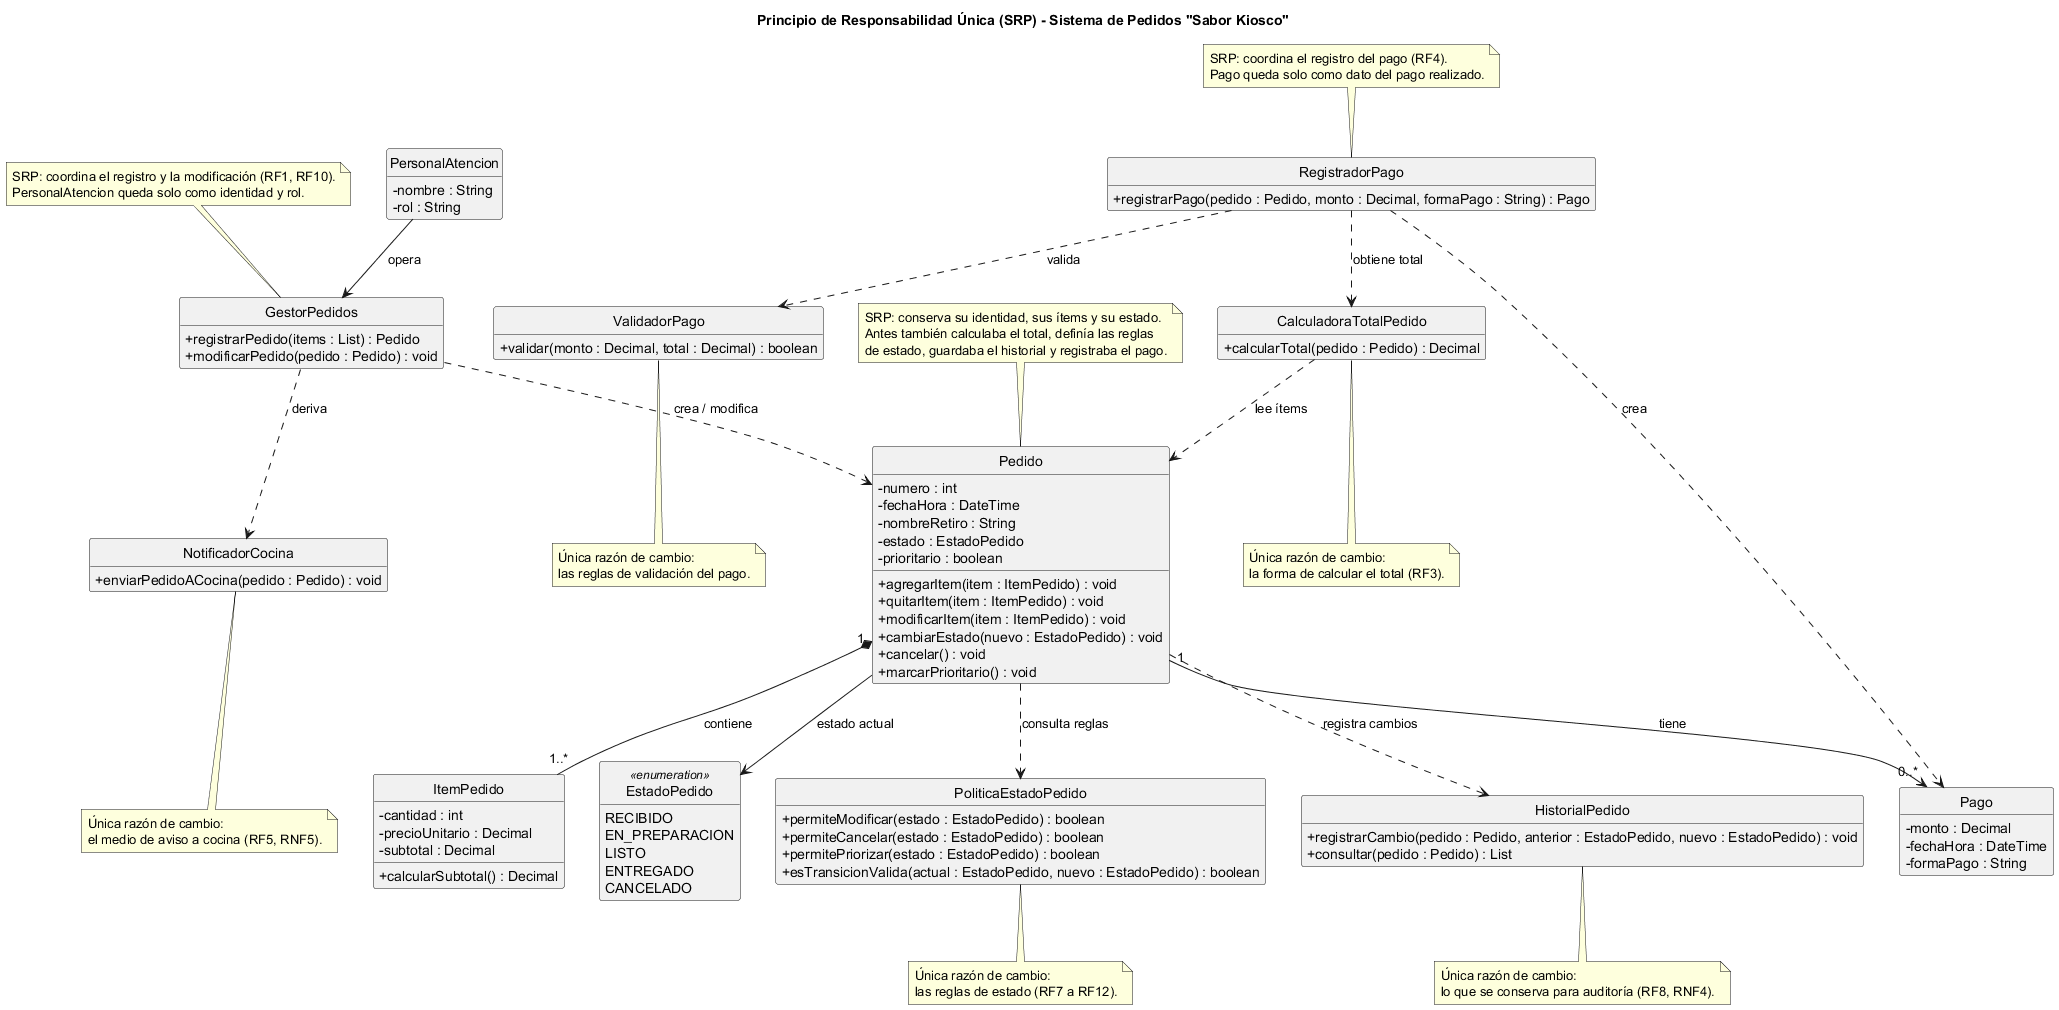
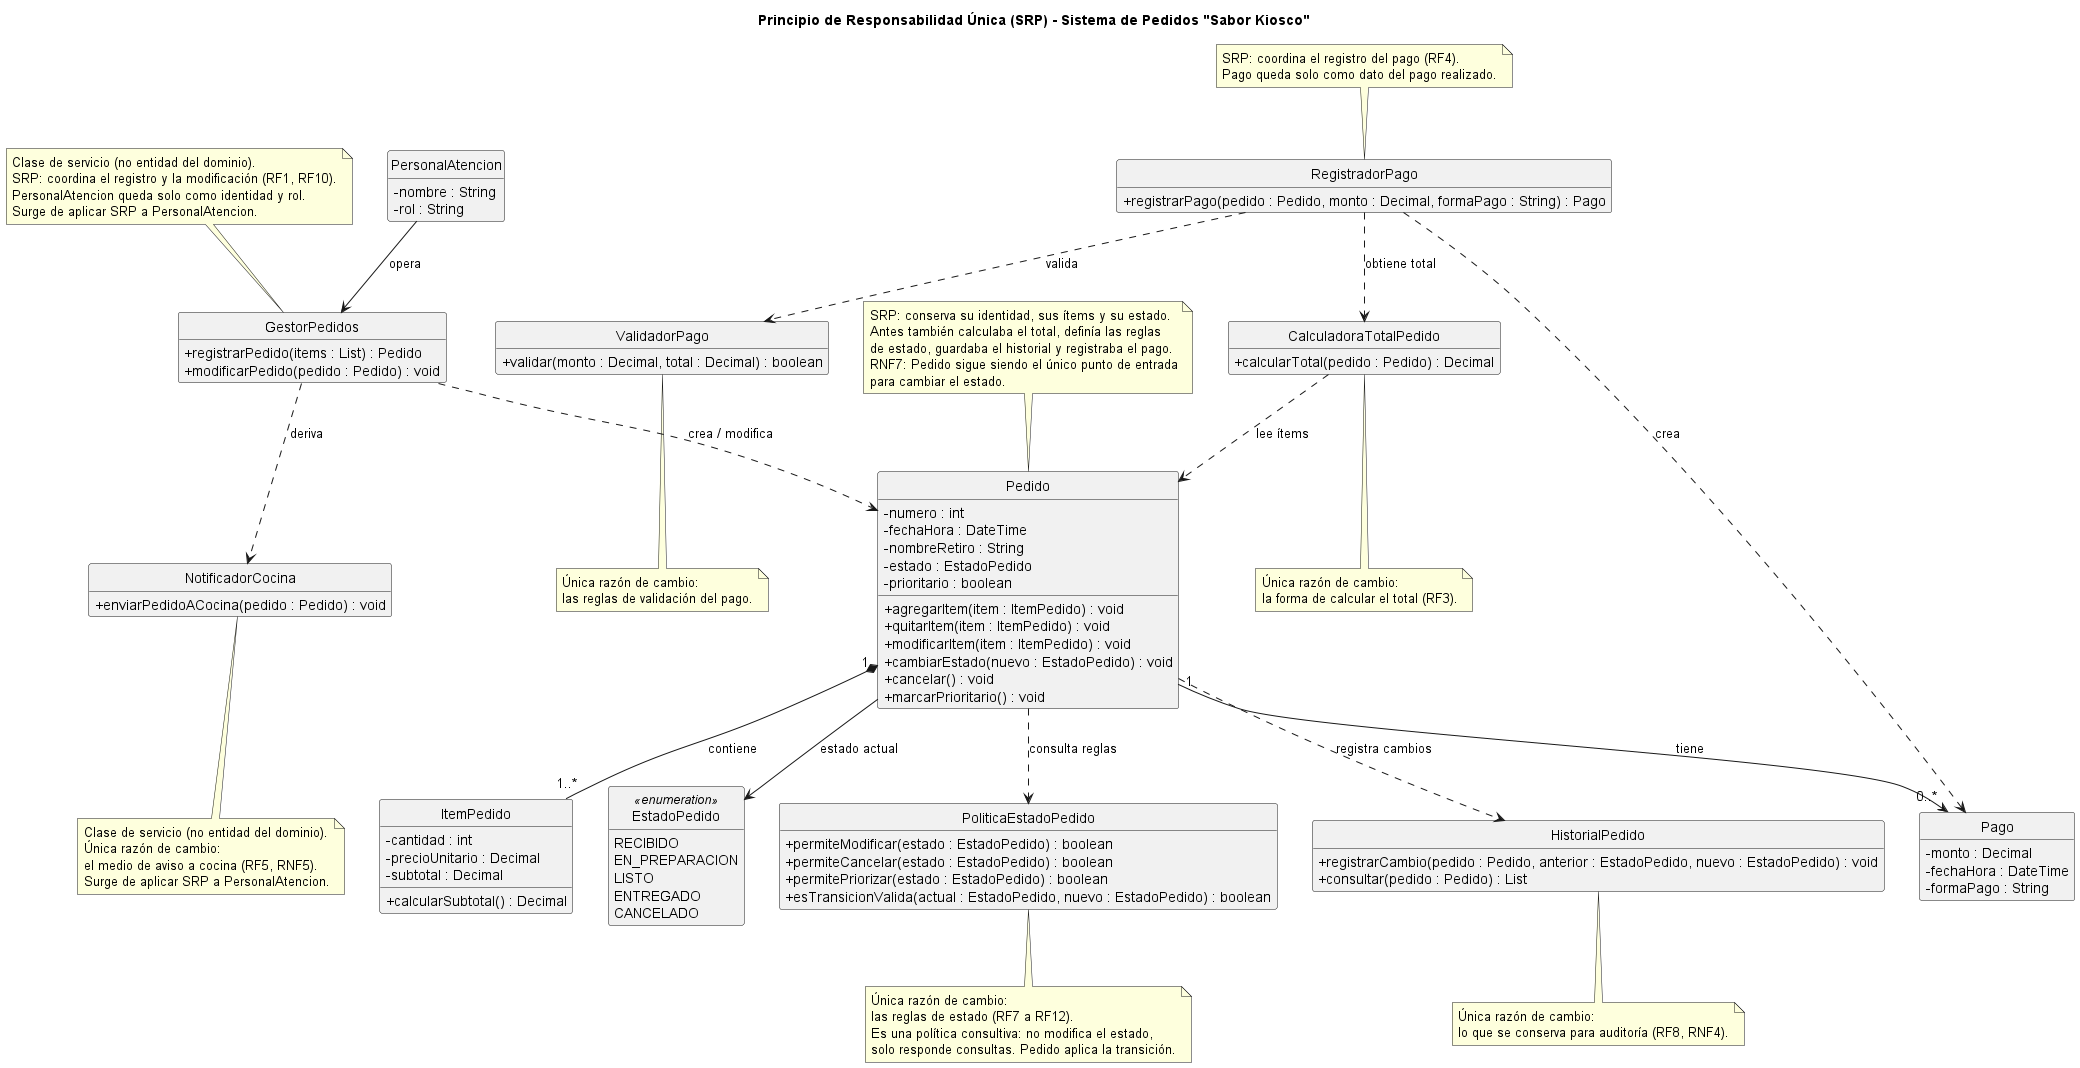
fix: resuelve RC15 (RNF7) y RC16 (clases de servicio SRP)

diff --git a/anexos/principios-solid/01-srp.md b/anexos/principios-solid/01-srp.md
@@ -49,7 +49,7 @@ El diagrama muestra la refactorización propuesta para las tres clases analizada
 
 En el diagrama, `Pedido` depende de `PoliticaEstadoPedido` y de `HistorialPedido` mediante relaciones de dependencia (línea punteada): las usa, pero no contiene su lógica. La relación de composición con `ItemPedido` se mantiene igual que en el boceto.
 
-Esta separación respeta el RNF7, que exige que las transiciones de estado queden encapsuladas en las entidades del dominio. `cambiarEstado()` y `cancelar()` siguen siendo los únicos puntos de entrada para modificar el estado y permanecen en `Pedido`; lo que se extrae es la definición de la regla, no el control del estado. Ningún objeto externo puede cambiar el estado sin pasar por `Pedido`. Los actores del boceto que no se refactorizaron (`Cocina`, `Encargado` y `Cliente`) siguen solicitando los cambios de estado a través de esos métodos.
+**Cumplimiento del RNF7:** El RNF7 exige que las transiciones de estado queden encapsuladas en las entidades del dominio. La solución respeta este requisito porque `Pedido` sigue siendo la **única clase que puede modificar su propio estado**. `PoliticaEstadoPedido` es una **política consultiva**: no tiene acceso al estado del pedido ni puede cambiarlo; solo responde consultas sobre qué transiciones son válidas. `Pedido` consulta a la política y, si la transición es válida, ejecuta el cambio. De esta manera, ningún objeto externo puede alterar el estado sin pasar por `Pedido`, y las reglas de transición quedan encapsuladas en una clase especializada, lo que también respeta el SRP. Los actores del boceto que no se refactorizaron (`Cocina`, `Encargado` y `Cliente`) siguen solicitando los cambios de estado a través de los métodos de `Pedido`.
 
 `Pedido` incorpora la operación `marcarPrioritario()`, que no figuraba en el boceto. El RF9 pide marcar un pedido como prioritario y la tarjeta CRC de `Pedido` le asigna mantener su condición de prioridad, pero el boceto solo tenía el atributo `prioritario`. La operación consulta `permitePriorizar()` de `PoliticaEstadoPedido`, porque la prioridad solo se admite en estado recibido o en preparación.
 
@@ -74,6 +74,8 @@ Esta separación respeta el RNF7, que exige que las transiciones de estado quede
 | `NotificadorCocina` | Enviar el pedido a cocina. | Cambia el medio de comunicación con cocina (RF5, RNF5). |
 
 `PersonalAtencion` se asocia con `GestorPedidos`, que es quien crea y modifica el `Pedido` y deriva el aviso a `NotificadorCocina`. La identidad de quien opera queda separada de la lógica de los casos de uso.
+
+**Justificación de las clases nuevas:** `GestorPedidos` y `NotificadorCocina` no son entidades del dominio, sino **clases de servicio** que coordinan casos de uso. Surgen de aplicar SRP a `PersonalAtencion`, que mezclaba la identidad del empleado con la lógica de registrar pedidos y notificar a cocina. Su creación está justificada por los requisitos **RF1** (registrar pedido) y **RF5** (enviar comanda a cocina), y por las tarjetas CRC que ya asignaban esas responsabilidades a `PersonalAtencion`. Al separarlas, `PersonalAtencion` queda como una entidad simple de identidad, y las clases de servicio pueden cambiar sin afectar la representación del personal. No se agregaron conceptos ajenos al dominio: son tareas que ya existían como métodos en el boceto inicial (`registrarPedido()`, `modificarPedido()`, `enviarPedidoACocina()`).
 
 ### Por qué la solución es correcta
 

diff --git a/ia/primer-parcial/especialista-srp.md b/ia/primer-parcial/especialista-srp.md
@@ -47,4 +47,9 @@ Se contrastó la propuesta del agente con el boceto de clases, las tarjetas CRC 
 - **Relación entre `Pedido` y `Pago`.** El diagrama la rotulaba "corresponde a", que en el boceto es la relación entre `ItemPedido` y `Producto`. Se corrigió a "tiene", que es el nombre que el boceto le da a la relación entre `Pedido` y `Pago`.
 - **Actores e historial.** El análisis no mencionaba a `Cocina`, `Encargado` ni `Cliente`. Se aclaró que no se refactorizaron y que siguen solicitando los cambios de estado a través de `Pedido`, lo que sostiene el cumplimiento del RNF7. También se agregó el RF8 como razón de cambio de `HistorialPedido`, porque es el requisito que exige registrar la cancelación en el historial.
 
+### Ajustes adicionales para resolver RC15 y RC16
+
+- **RC15 (RNF7):** Se reforzó la justificación del cumplimiento del RNF7 en el archivo `01-srp.md`. Se aclaró que `PoliticaEstadoPedido` es una **política consultiva** que no modifica el estado, y que `Pedido` sigue siendo el **único punto de entrada** para cambiarlo. Se agregó una nota en el diagrama PlantUML que explica esto mismo.
+- **RC16 (clases nuevas):** Se justificó explícitamente la creación de `GestorPedidos` y `NotificadorCocina` como **clases de servicio** que surgen de aplicar SRP a `PersonalAtencion`, y se vincularon a los requisitos RF1 y RF5. Se agregaron notas en el diagrama PlantUML para aclarar que no son entidades del dominio.
+
 Además, la consigna nombra el boceto como `01-boceto-inicial.excalidraw`; se usó `01-boceto-inicial-corregido.excalidraw`, que es el archivo vigente en el repositorio tras las correcciones de la Actividad Obligatoria N°2. Para el atributo de retiro se mantuvo `nombreRetiro`, como figura en el boceto.
